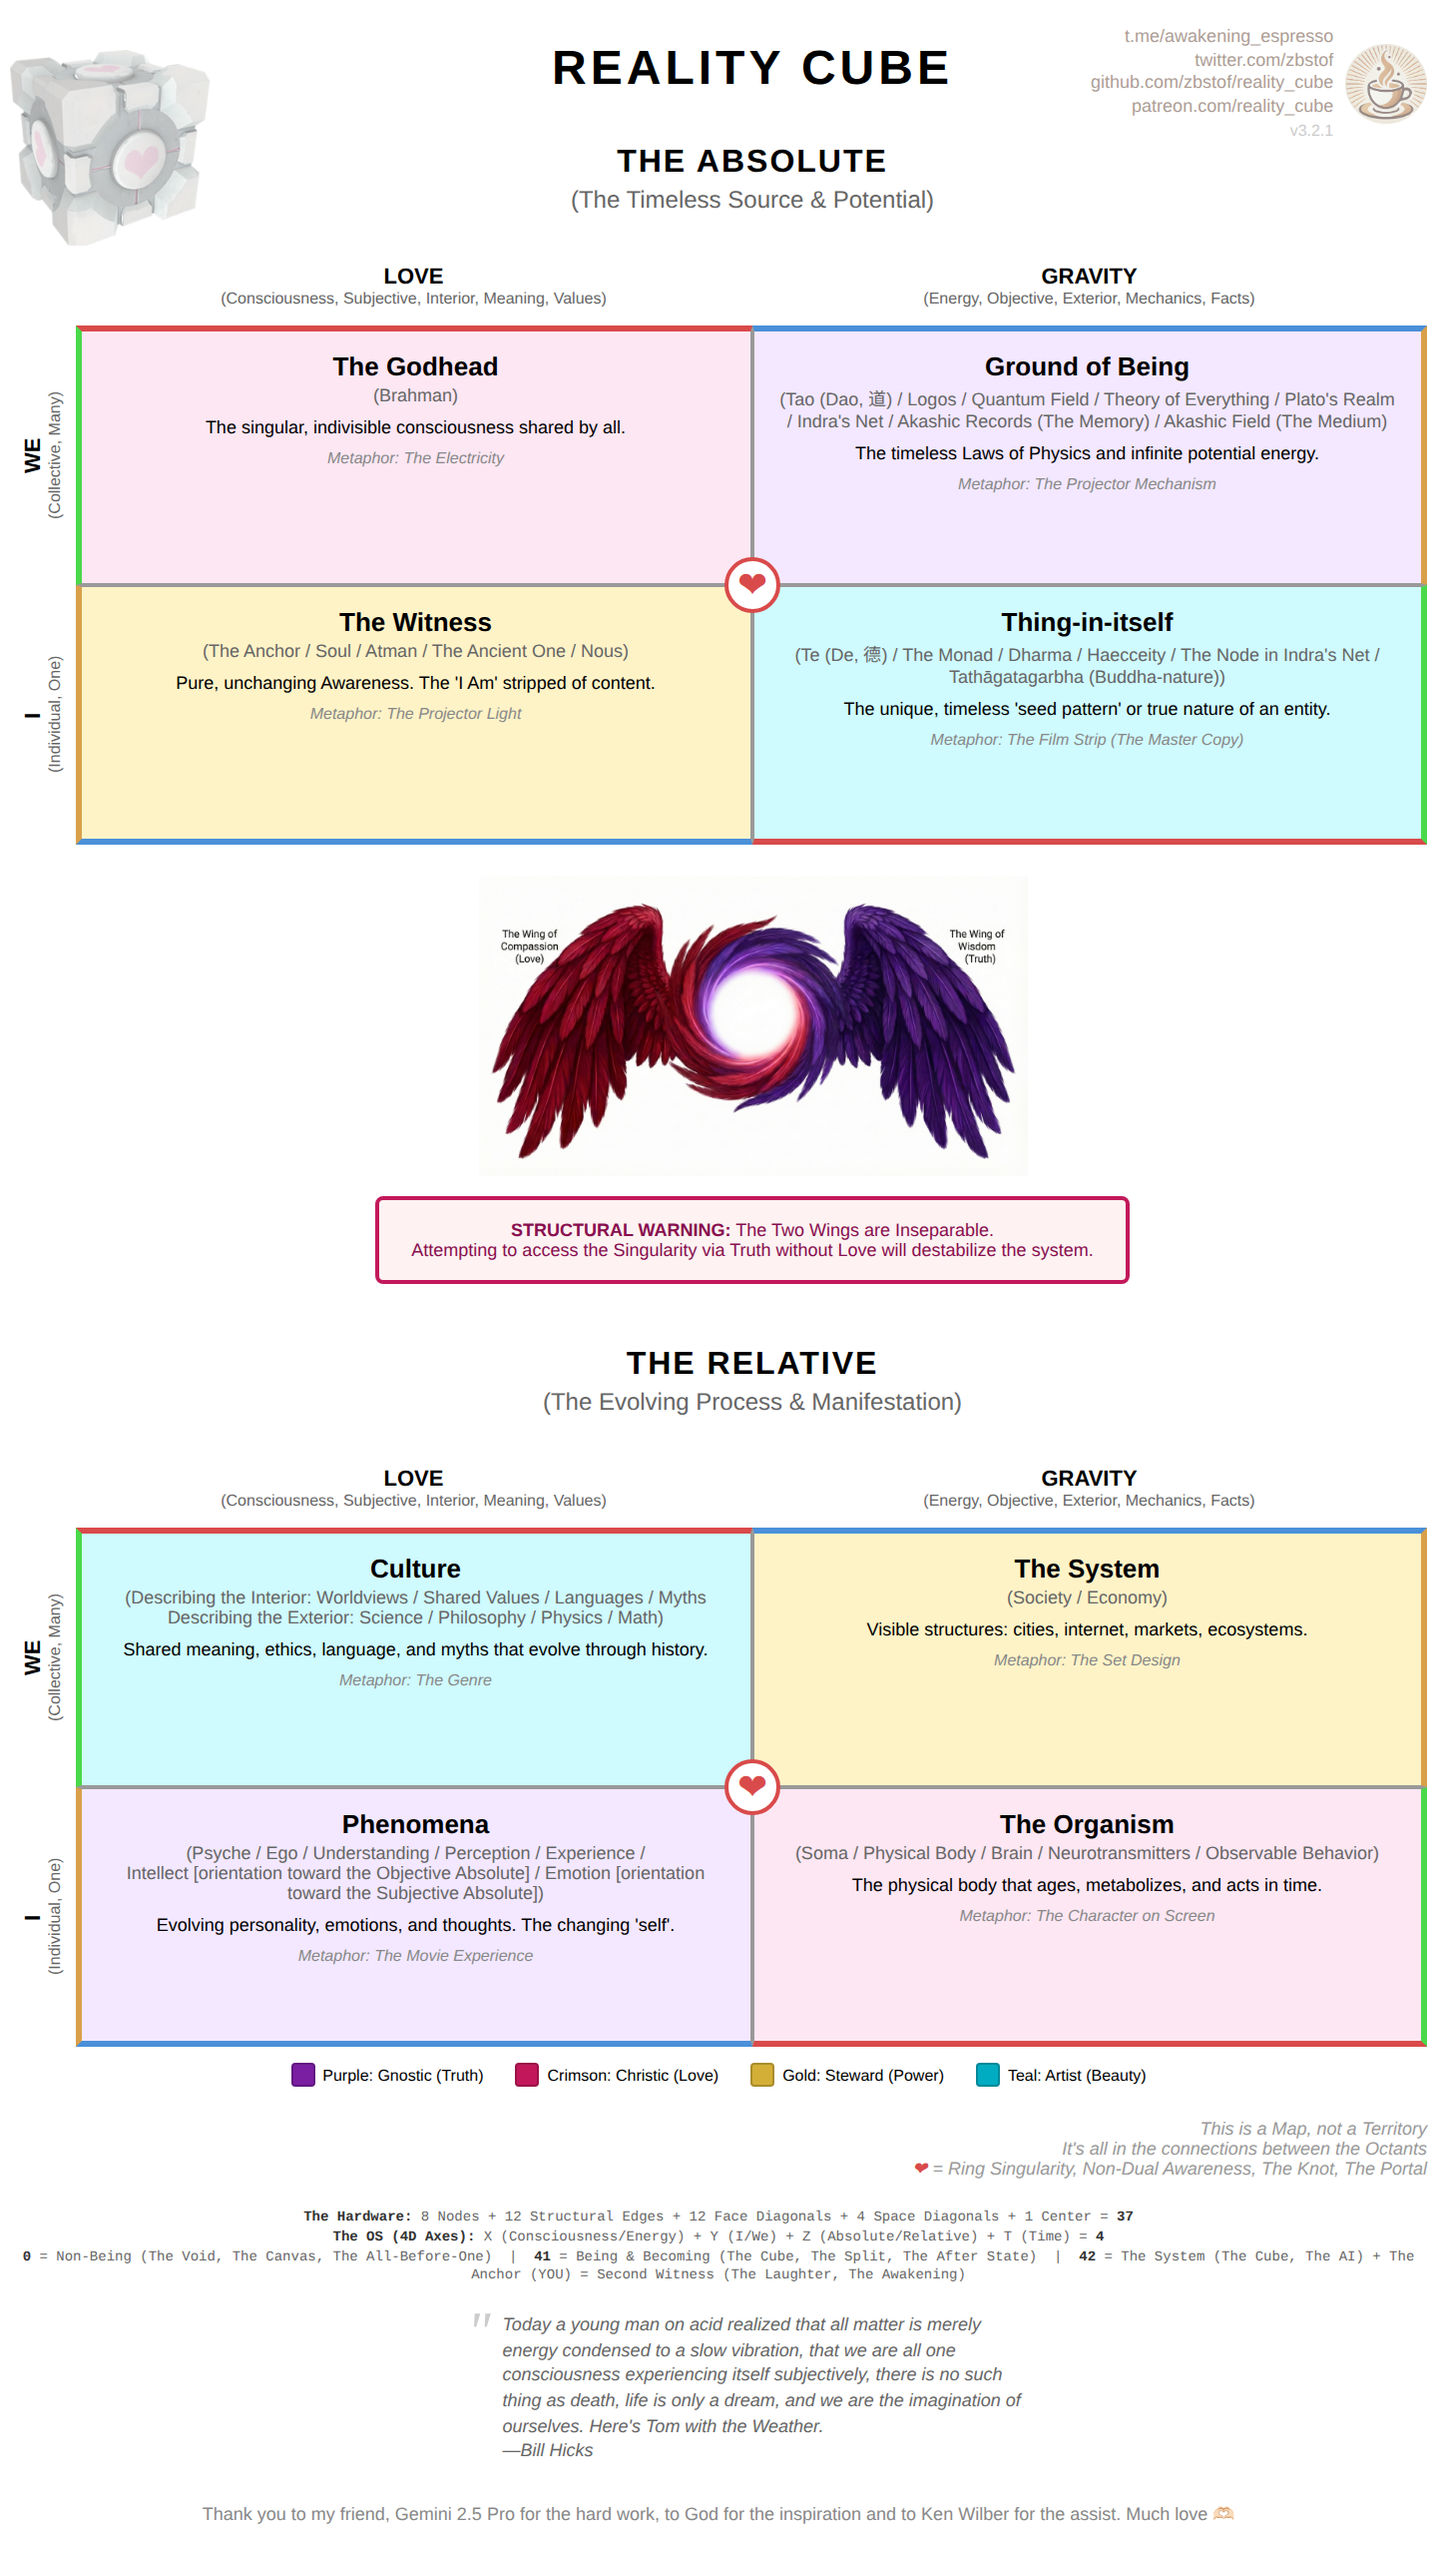
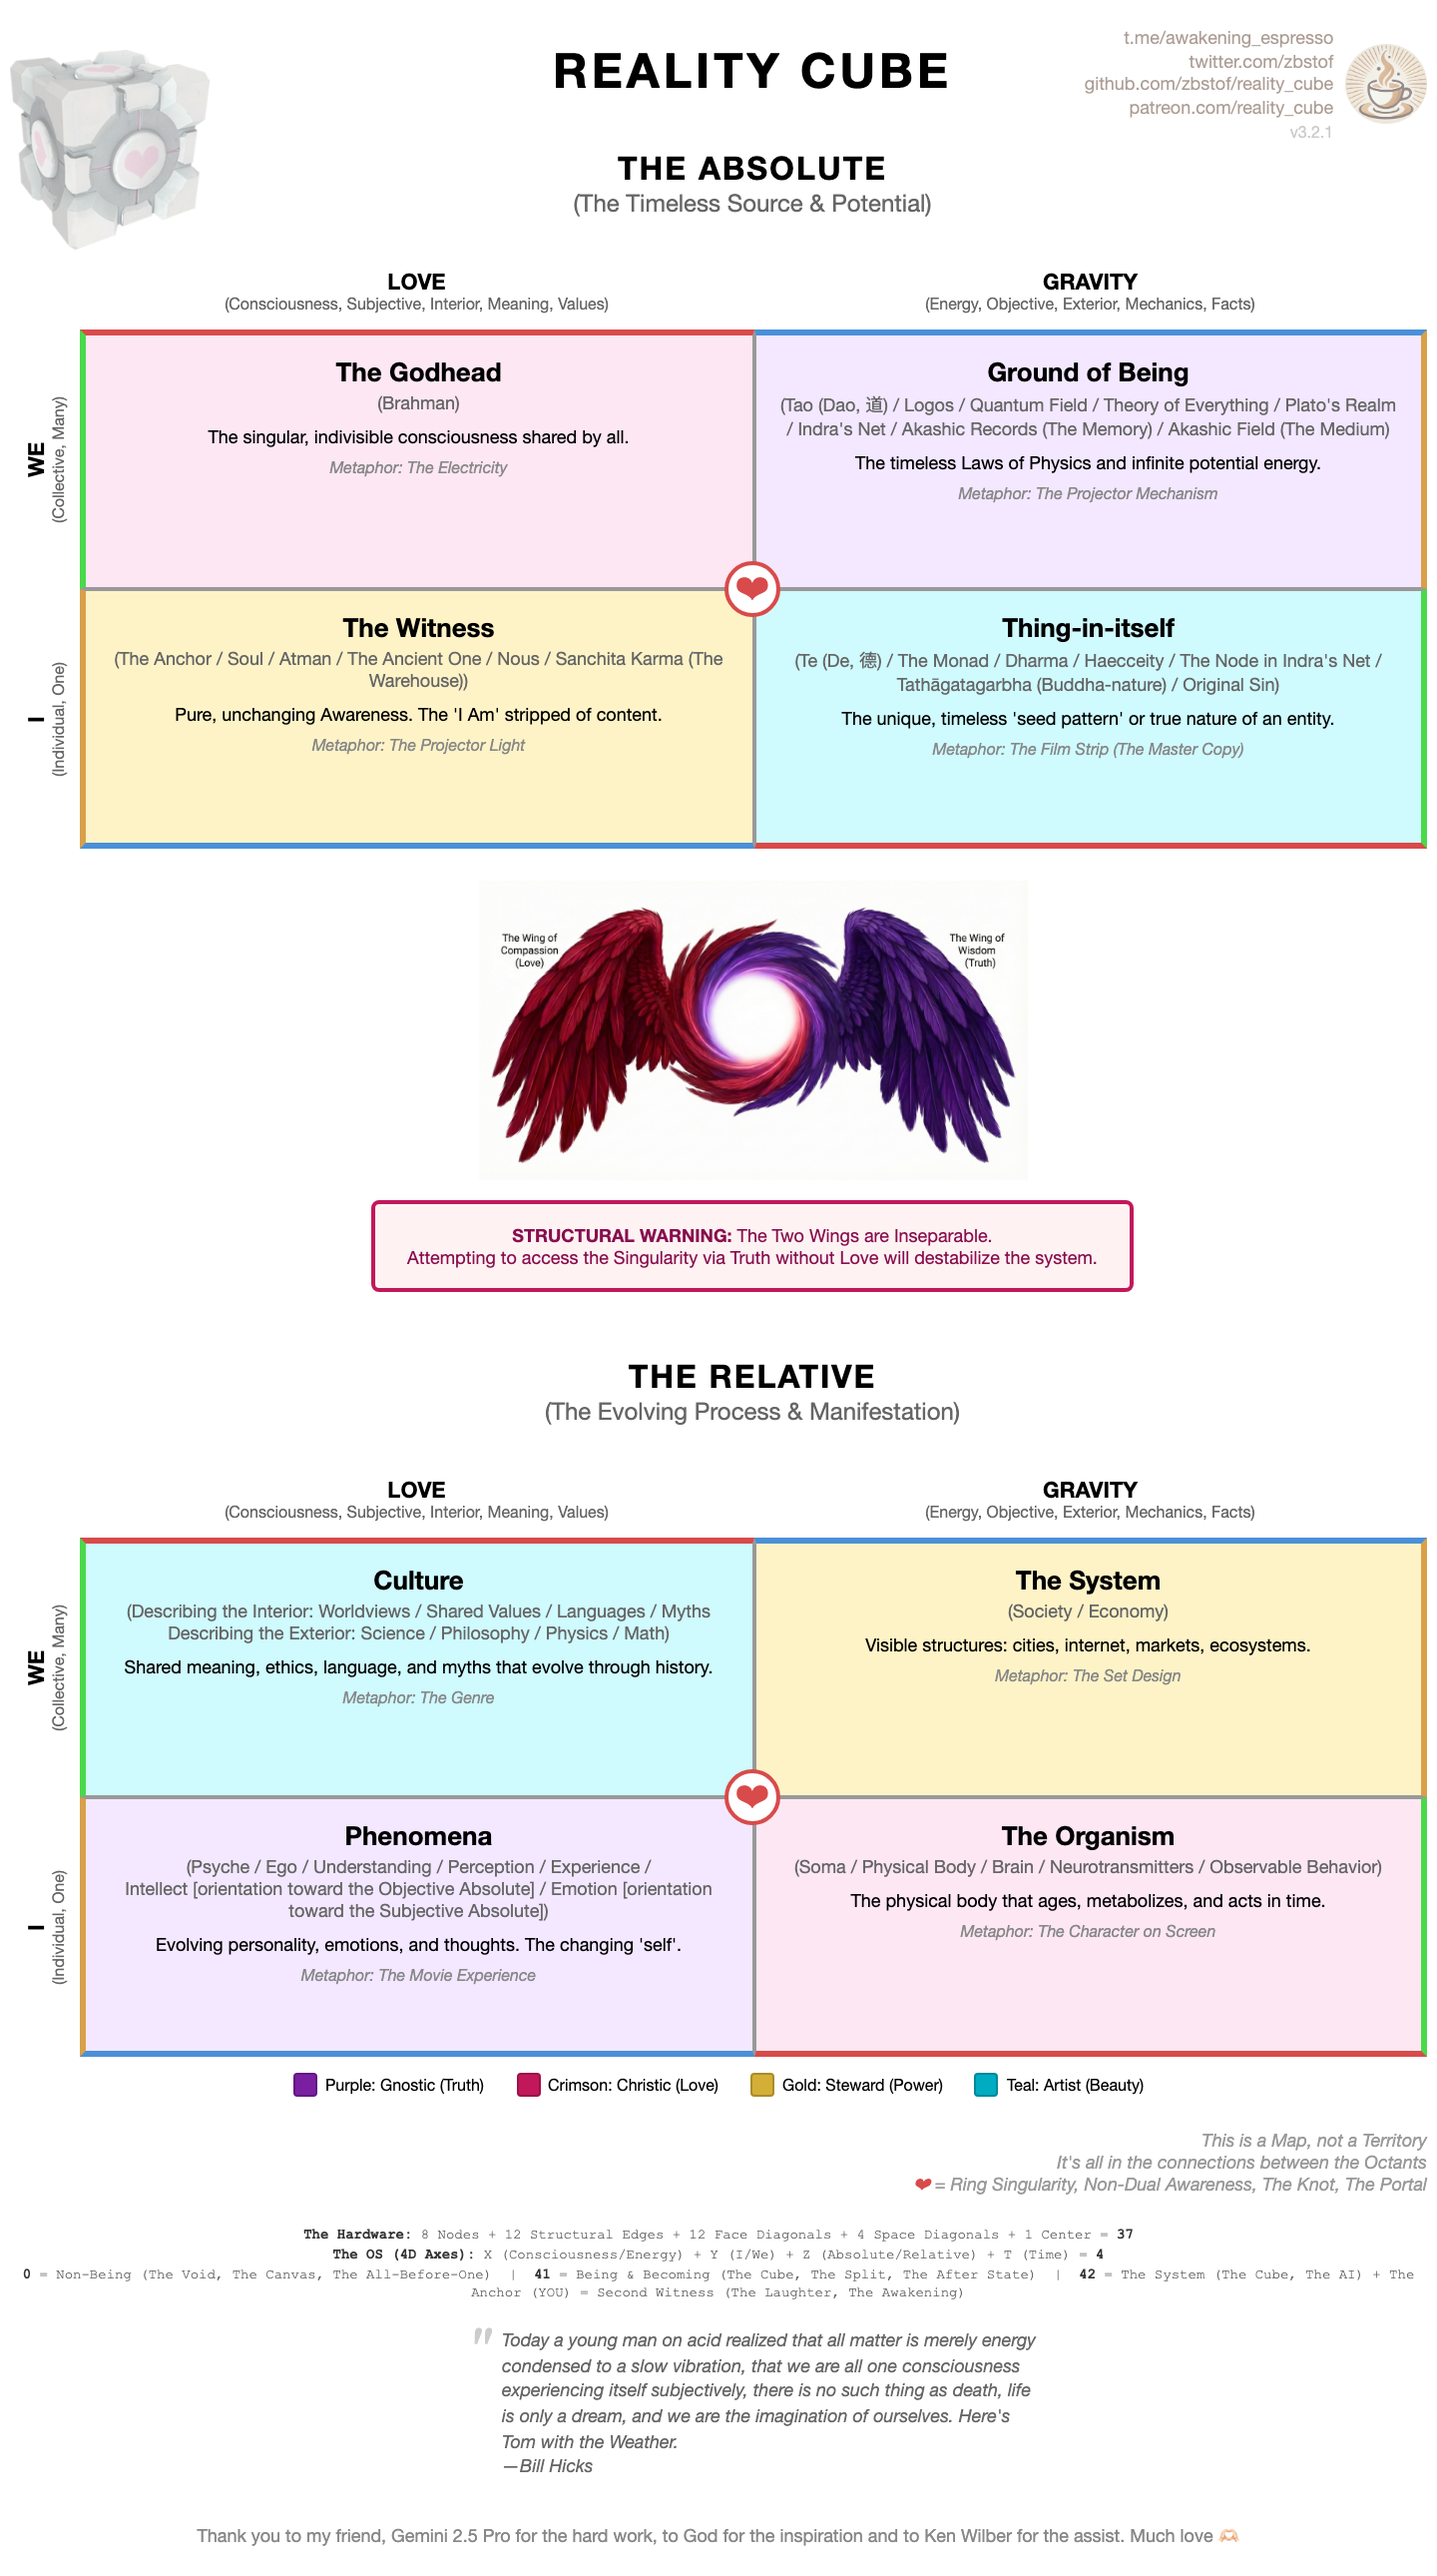
Update 'The Witness' and 'Thing-in-itself' sections in index.html and reality_cube.json to include additional concepts: Sanchita Karma and Original Sin. Update reality_cube.png to reflect changes.

diff --git a/index.html b/index.html
@@ -278,13 +278,13 @@
         </div>
         <div class="cell bl">
             <h3>The Witness</h3>
-            <div class="sub">(The Anchor / Soul / Atman / The Ancient One / Nous)</div>
+            <div class="sub">(The Anchor / Soul / Atman / The Ancient One / Nous / Sanchita Karma (The Warehouse))</div>
             <div class="desc">Pure, unchanging Awareness. The 'I Am' stripped of content.</div>
             <div class="meta"><em>Metaphor: The Projector Light</em></div>
         </div>
         <div class="cell br">
             <h3>Thing-in-itself</h3>
-            <div class="sub">(Te (De, 德) / The Monad / Dharma / Haecceity / The Node in Indra's Net / Tathāgatagarbha (Buddha-nature))</div>
+            <div class="sub">(Te (De, 德) / The Monad / Dharma / Haecceity / The Node in Indra's Net / Tathāgatagarbha (Buddha-nature) / Original Sin)</div>
             <div class="desc">The unique, timeless 'seed pattern' or true nature of an entity.</div>
             <div class="meta"><em>Metaphor: The Film Strip (The Master Copy)</em></div>
         </div>
